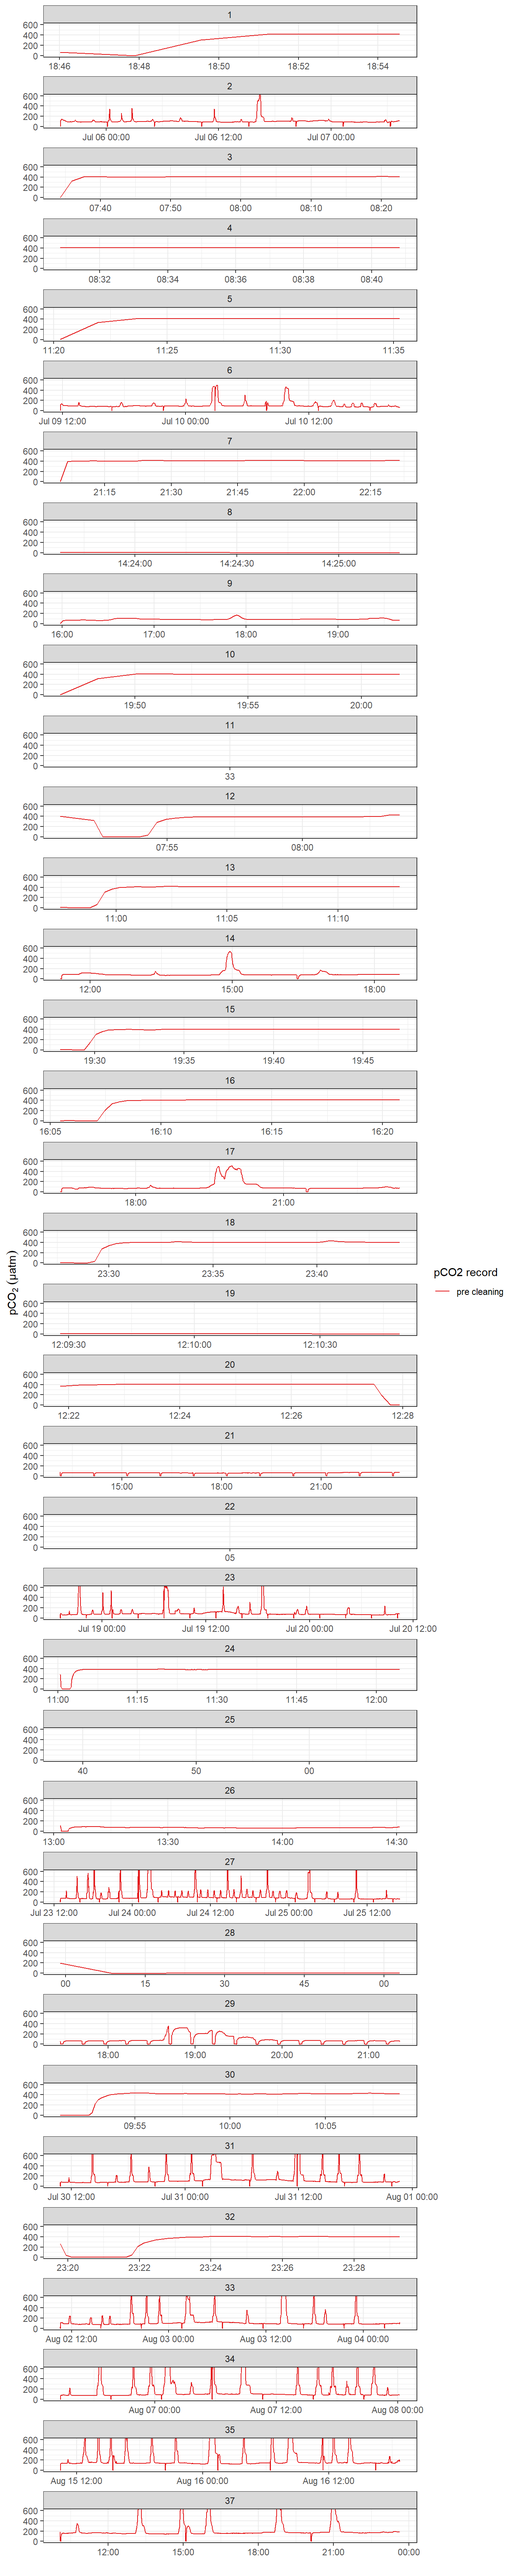
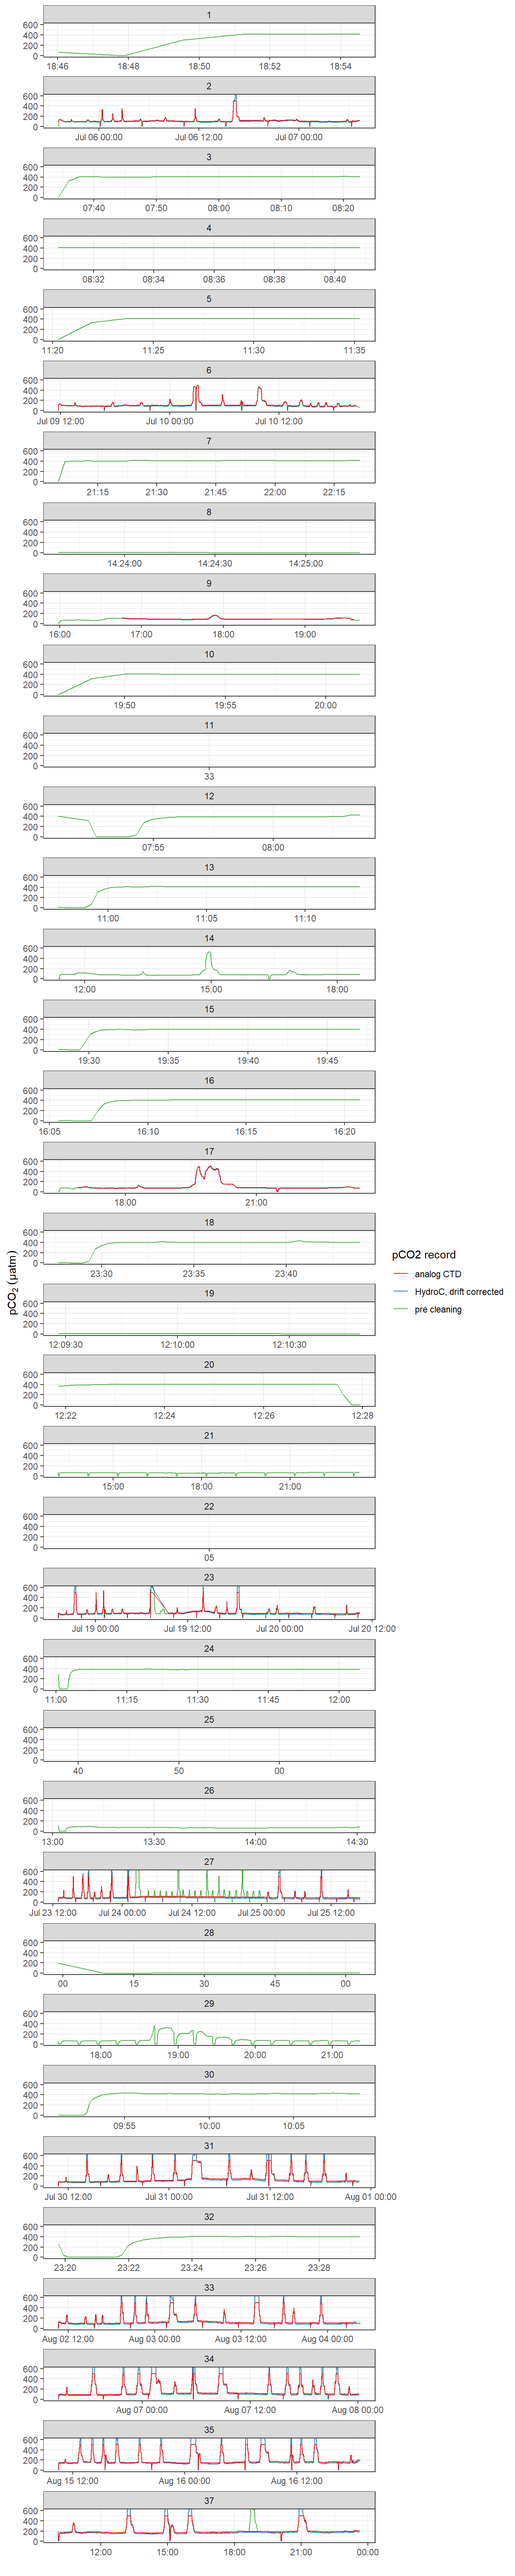
Build site.

diff --git a/docs/merging_interpolation.html b/docs/merging_interpolation.html
@@ -549,16 +549,16 @@ This reproducible <a href="http://rmarkdown.rstudio.com">R Markdown</a> analysis
 <div class="panel panel-default">
 <div class="panel-heading">
 <p class="panel-title">
-<a data-toggle="collapse" data-parent="#workflowr-checks" href="#strongRepositoryversionstrongahrefhttpsgithubcomjensdanielmuellerBloomSailtree99e69cfc8c81c839324f95d6d9961679cd8e77a3targetblank99e69cfa"> <span class="glyphicon glyphicon-ok text-success" aria-hidden="true"></span> <strong>Repository version:</strong> <a href="https://github.com/jens-daniel-mueller/BloomSail/tree/99e69cfc8c81c839324f95d6d9961679cd8e77a3" target="_blank">99e69cf</a> </a>
+<a data-toggle="collapse" data-parent="#workflowr-checks" href="#strongRepositoryversionstrongahrefhttpsgithubcomjensdanielmuellerBloomSailtree0e92cf9a1dda47d6e27bf85dbc0da5dbcd9a9ed6targetblank0e92cf9a"> <span class="glyphicon glyphicon-ok text-success" aria-hidden="true"></span> <strong>Repository version:</strong> <a href="https://github.com/jens-daniel-mueller/BloomSail/tree/0e92cf9a1dda47d6e27bf85dbc0da5dbcd9a9ed6" target="_blank">0e92cf9</a> </a>
 </p>
 </div>
[2 lines of base64/hex data omitted]
 <div class="panel-body">
 <p>
 Great! You are using Git for version control. Tracking code development and connecting the code version to the results is critical for reproducibility.
 </p>
 <p>
-The results in this page were generated with repository version <a href="https://github.com/jens-daniel-mueller/BloomSail/tree/99e69cfc8c81c839324f95d6d9961679cd8e77a3" target="_blank">99e69cf</a>. See the <em>Past versions</em> tab to see a history of the changes made to the R Markdown and HTML files.
+The results in this page were generated with repository version <a href="https://github.com/jens-daniel-mueller/BloomSail/tree/0e92cf9a1dda47d6e27bf85dbc0da5dbcd9a9ed6" target="_blank">0e92cf9</a>. See the <em>Past versions</em> tab to see a history of the changes made to the R Markdown and HTML files.
 </p>
 <p>
 Note that you need to be careful to ensure that all relevant files for the analysis have been committed to Git prior to generating the results (you can use <code>wflow_publish</code> or <code>wflow_git_commit</code>). workflowr only checks the R Markdown file, but you know if there are other scripts or data files that it depends on. Below is the status of the Git repository when the results were generated:
@@ -614,6 +614,40 @@ Message
 </tr>
 </thead>
 <tbody>
+<tr>
+<td>
+Rmd
+</td>
+<td>
+<a href="https://github.com/jens-daniel-mueller/BloomSail/blob/0e92cf9a1dda47d6e27bf85dbc0da5dbcd9a9ed6/analysis/merging_interpolation.Rmd" target="_blank">0e92cf9</a>
+</td>
+<td>
+jens-daniel-mueller
+</td>
+<td>
+2020-09-25
+</td>
+<td>
+enabled chunks for merging and saving
+</td>
+</tr>
+<tr>
+<td>
+html
+</td>
+<td>
+<a href="https://rawcdn.githack.com/jens-daniel-mueller/BloomSail/02a16095908c3d9cfcb97b0909fd32d4faa1ecf1/docs/merging_interpolation.html" target="_blank">02a1609</a>
+</td>
+<td>
+jens-daniel-mueller
+</td>
+<td>
+2020-09-25
+</td>
+<td>
+Build site.
+</td>
+</tr>
 <tr>
 <td>
 Rmd
@@ -1987,16 +2021,15 @@ for (i_deployment in unique(ts_th$deployment)) {
   }
 }
 
-dev.off()
-
-rm(ts_th_Zero, ts_th_Zero_deployment, i_deployment, i_Zero_counter)</code></pre>
+dev.off()</code></pre>
+<pre><code>png 
+  2 </code></pre>
+<pre class="r"><code>rm(ts_th_Zero, ts_th_Zero_deployment, i_deployment, i_Zero_counter)</code></pre>
 </div>
 <div id="write-merged-file" class="section level2">
 <h2><span class="header-section-number">1.3</span> Write merged file</h2>
 <pre class="r"><code>ts_th %&gt;% 
-  write_csv(here::here(&quot;Data/_merged_data_files/merging_interpolation&quot;, &quot;ts_th.csv&quot;))
-
-rm(ts_th)</code></pre>
+  write_csv(here::here(&quot;Data/_merged_data_files/merging_interpolation&quot;, &quot;ts_th.csv&quot;))</code></pre>
 </div>
 <div id="time-series-pco2" class="section level2">
 <h2><span class="header-section-number">1.4</span> Time series pCO<sub>2</sub></h2>
@@ -2021,7 +2054,7 @@ th_new_withAW &lt;- th_new_withAW %&gt;%
 
 # Read Contros corrected data file, based on cleaned recordings without water vapor correction
 
-th_new_withoutAW &lt;-
+th_new_withoutAW_all &lt;-
   read_csv2(here::here(&quot;Data/TinaV/Sensor/HydroC-pCO2/corrected_Contros&quot;,
                        &quot;parameter&amp;pCO2s(method 43)_new_withoutAW.txt&quot;),
             col_names = c(&quot;date_time&quot;, &quot;Zero&quot;, &quot;Flush&quot;, &quot;p_NDIR&quot;,
@@ -2032,7 +2065,7 @@ th_new_withoutAW &lt;-
          Flush = as.factor(as.character(Flush)),
          Zero = as.factor(as.character(Zero)))
 
-th_new_withoutAW &lt;- th_new_withoutAW %&gt;% 
+th_new_withoutAW &lt;- th_new_withoutAW_all %&gt;% 
   slice(seq(1,n(),10))
 
 th_all_data &lt;- read_csv(here::here(&quot;Data/_summarized_data_files&quot;,
@@ -2041,19 +2074,7 @@ th_all_data &lt;- read_csv(here::here(&quot;Data/_summarized_data_files&quot;,
 th_all_data &lt;- th_all_data %&gt;% 
   slice(seq(1,n(),10))
 
-ts_th &lt;- read_csv(here::here(&quot;data/_merged_data_files/merging_interpolation&quot;,
-                          &quot;ts_th.csv&quot;),
-               col_types = cols(ID = col_character(),
-                                pCO2_analog = col_double(),
-                                pCO2_corr = col_double(),
-                                Zero = col_factor(),
-                                Flush = col_factor(),
-                                Zero_counter = col_integer(),
-                                deployment = col_integer(),
-                                duration = col_double(),
-                                mixing = col_character()))
-
-ts_th &lt;- ts_th %&gt;% 
+ts_th_sub &lt;- ts_th %&gt;% 
   slice(seq(1,n(),10))</code></pre>
 </div>
 <div id="comparison-of-preliminary-pco2-data" class="section level3">
@@ -2062,8 +2083,8 @@ ts_th &lt;- ts_th %&gt;%
 <h4><span class="header-section-number">1.4.2.1</span> Analog vs internal</h4>
 <pre class="r"><code>ggplot()+
   geom_path(data = th_all_data, aes(date_time, pCO2_corr, col = &quot;pre cleaning&quot;))+
-  # geom_path(data = ts_th, aes(date_time, pCO2_corr, col = &quot;HydroC, drift corrected&quot;))+
-  # geom_path(data = ts_th, aes(date_time, pCO2_analog, col = &quot;analog CTD&quot;))+
+  geom_path(data = ts_th_sub, aes(date_time, pCO2_corr, col = &quot;HydroC, drift corrected&quot;))+
+  geom_path(data = ts_th_sub, aes(date_time, pCO2_analog, col = &quot;analog CTD&quot;))+
   scale_color_brewer(palette = &quot;Set1&quot;, name = &quot;pCO2 record&quot;)+
   coord_cartesian(ylim = c(0,600))+
   labs(y=expression(pCO[2]~(µatm)), x=&quot;&quot;)+
@@ -2078,7 +2099,7 @@ pCO<sub>2</sub> record after interpolation to HydroC timestamp (analog output fr
 <div id="raw-vs-clean" class="section level4">
 <h4><span class="header-section-number">1.4.2.2</span> Raw vs clean</h4>
 <pre class="r"><code>th_comparison &lt;- full_join(
-  ts_th %&gt;% select(date_time, deployment, pCO2_corr),
+  ts_th_sub %&gt;% select(date_time, deployment, pCO2_corr),
   th_new_withAW %&gt;% select(date_time, pCO2_corr) %&gt;% rename(pCO2_withAW = pCO2_corr)
 )
 
@@ -2112,7 +2133,6 @@ th_comparison %&gt;%
   facet_wrap(~deployment, scales = &quot;free_x&quot;, ncol = 1)</code></pre>
 <p><img src="figure/merging_interpolation.Rmd/water_vapor_correction-1.png" width="672" style="display: block; margin: auto;" /></p>
 <pre class="r"><code>th_comparison %&gt;% 
-  filter(!is.na(pCO2_corr)) %&gt;% 
   ggplot() +
   geom_path(data = th_all_data, aes(date_time, 0, col = &quot;pre runtime&quot;))+
   geom_path(aes(date_time, pCO2_withoutAW-pCO2_withAW, col = &quot;without - with AW&quot;))+
@@ -2120,25 +2140,25 @@ th_comparison %&gt;%
   labs(y=expression(pCO[2]~(µatm)), x=&quot;&quot;)+
   facet_wrap(~deployment, scales = &quot;free_x&quot;, ncol = 1)</code></pre>
 <p><img src="figure/merging_interpolation.Rmd/water_vapor_correction_offset-1.png" width="672" style="display: block; margin: auto;" /></p>
+<pre class="r"><code>rm(ts_th_sub, th_all_data, th_new_withAW, th_new_withoutAW, th_comparison)</code></pre>
 </div>
 </div>
 <div id="replace-pco2-data" class="section level3">
 <h3><span class="header-section-number">1.4.3</span> replace pCO2 data</h3>
-<pre class="r"><code>th_new_withAW &lt;- th_new_withAW %&gt;% 
+<pre class="r"><code>th_new_withoutAW_all &lt;- th_new_withoutAW_all %&gt;% 
   select(date_time, pCO2_corr)
 
 ts_th &lt;- ts_th %&gt;% 
   select(-pCO2_corr)
 
 
-ts_th &lt;- full_join(ts_th, th_new_withAW) 
+ts_th &lt;- full_join(ts_th, th_new_withoutAW_all) 
 
-rm(th_new_withAW, th_new_withoutAW)</code></pre>
+rm(th_new_withoutAW_all)</code></pre>
 </div>
 <div id="offset-analog-vs-post-processed-pco2" class="section level3">
 <h3><span class="header-section-number">1.4.4</span> Offset analog vs post-processed pCO<sub>2</sub></h3>
 <pre class="r"><code>ts_th %&gt;% 
-  filter(!is.na(pCO2_corr)) %&gt;% 
   ggplot()+
   geom_path(aes(date_time, pCO2_corr - pCO2_analog))+
   ylim(-30, 0)+
@@ -2155,20 +2175,7 @@ pCO<sub>2</sub> difference betweeb HydroC and drift corrected data provided by C
 </div>
 <div id="merges-sensor-ts_th-track-tt-data" class="section level1">
 <h1><span class="header-section-number">2</span> Merges sensor (ts_th) + track (tt) data</h1>
-<pre class="r"><code>ts_th &lt;- read_csv(here::here(&quot;data/_merged_data_files/merging_interpolation&quot;,
-                          &quot;ts_th.csv&quot;),
-               col_types = cols(ID = col_character(),
-                                pCO2_analog = col_double(),
-                                pCO2_corr = col_double(),
-                                Zero = col_factor(),
-                                Flush = col_factor(),
-                                Zero_counter = col_integer(),
-                                deployment = col_integer(),
-                                duration = col_double(),
-                                mixing = col_character()))
-
-
-tt &lt;- read_csv(here::here(&quot;Data/_summarized_data_files&quot;,
+<pre class="r"><code>tt &lt;- read_csv(here::here(&quot;Data/_summarized_data_files&quot;,
                           &quot;tt.csv&quot;))
 
 
@@ -2185,9 +2192,6 @@ tm %&gt;% write_csv(here::here(&quot;Data/_merged_data_files/merging_interpolati
                             &quot;tm.csv&quot;))
 
 rm(tm, ts_th, tt)</code></pre>
-</div>
-<div id="tasks-open-questions" class="section level1">
-<h1><span class="header-section-number">3</span> Tasks / open questions</h1>
 <br>
 <p>
 <button type="button" class="btn btn-default btn-workflowr btn-workflowr-sessioninfo" data-toggle="collapse" data-target="#workflowr-sessioninfo" style="display: block;">
